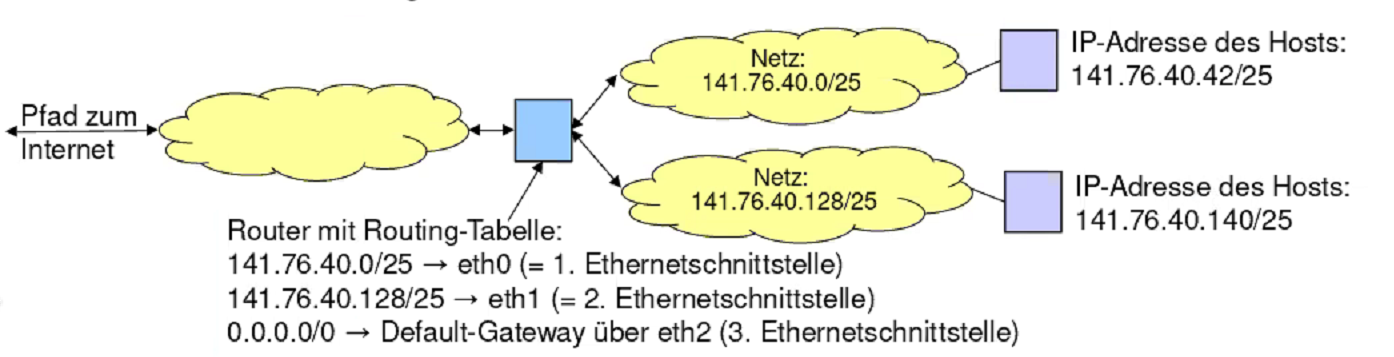
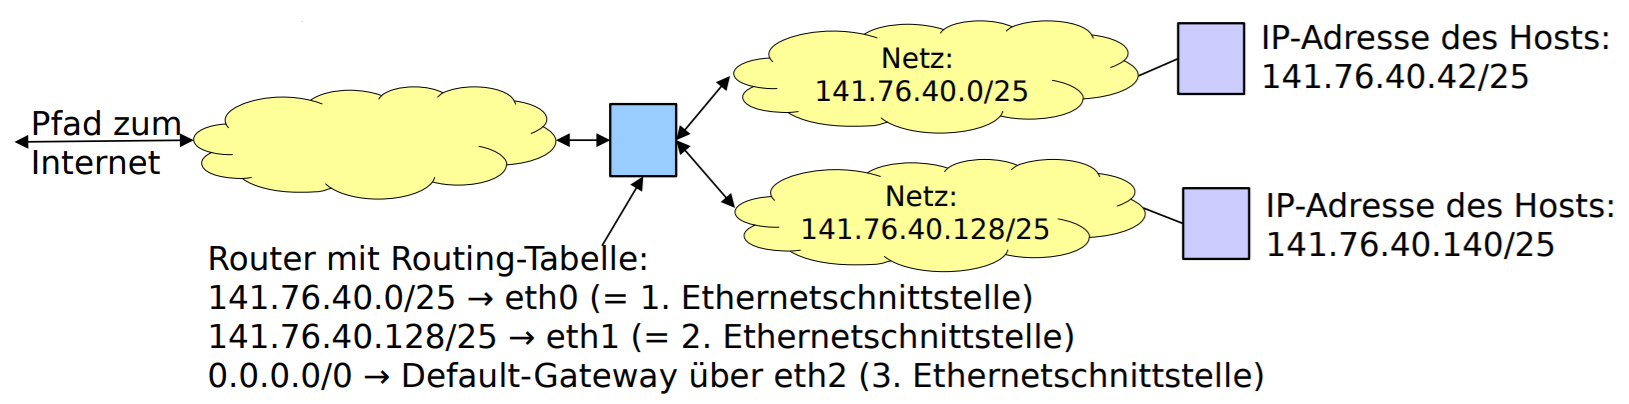
NET: higher res graphics

diff --git a/NET/README.md b/NET/README.md
@@ -740,11 +740,7 @@ versendet -> ist Adresse bereits verwendet sendet entsprechender Host Neighbor-A
 	- Netzwerksicherheitswerkzeuge wie Portscanner
 	- ICMP-basierte Anwendungen
 	- Routing-Protokolle
-
-![Raw-Sockets](resources/Raw_Sockets.png)
-
 - Tooling: **Scapy** und **nmap**
-
 - Frage: Wie kann unter Verwendung von Raw-Sockets ein einfaches TRACEROUTE gebaut werden?
 
 - Antwort: Mit Hilfe des TTL kann dies ermöglicht werden
